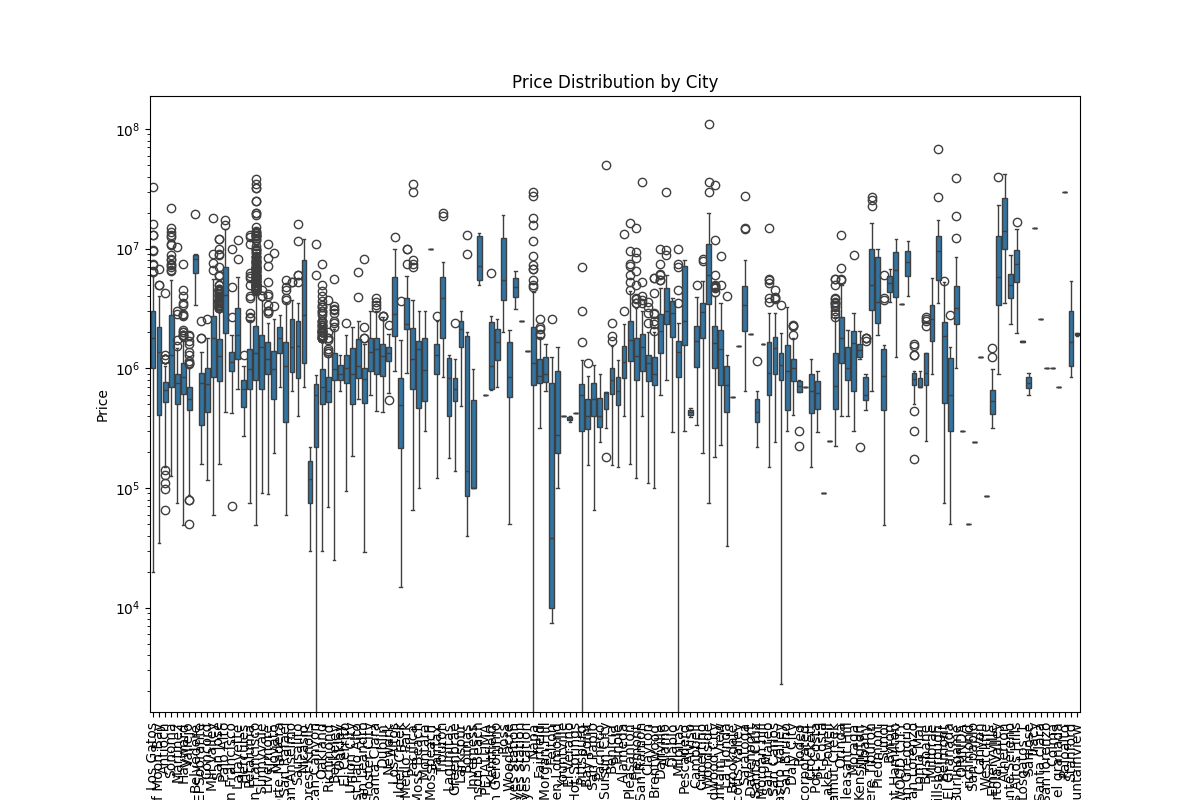
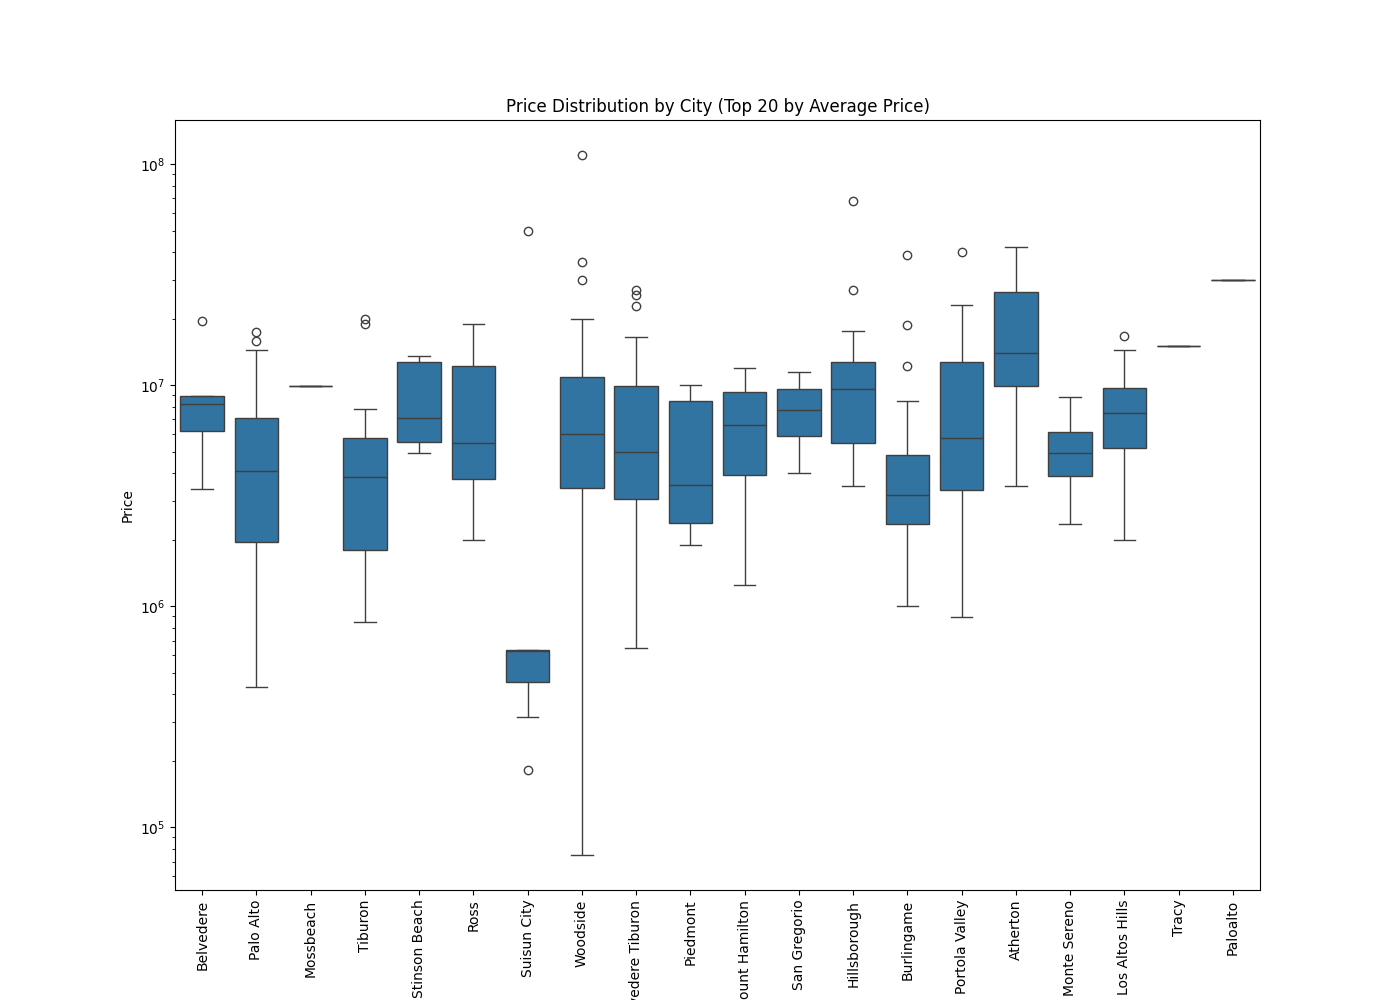
update plot_price_distribution_by_city

diff --git a/src/exploratory_analysis.py b/src/exploratory_analysis.py
@@ -45,18 +45,35 @@ def plot_avg_price_by_beds(df, output_path):
     plt.show()
     plt.close()
 
+# def plot_price_distribution_by_city(df, output_path):
+#     # Price Distribution by City
+#     plt.figure(figsize=(12, 8))
+#     sns.boxplot(x='addressCity', y='price', data=df)
+#     plt.xticks(rotation=90)
+#     plt.title('Price Distribution by City')
+#     plt.xlabel('City')
+#     plt.ylabel('Price')
+#     plt.yscale('log')
+#     plt.savefig(os.path.join(output_path, 'price_distribution_by_city.png'))
+#     plt.show()
+#     plt.close()
+
 def plot_price_distribution_by_city(df, output_path):
-    # Price Distribution by City
-    plt.figure(figsize=(12, 8))
-    sns.boxplot(x='addressCity', y='price', data=df)
+    # Filter top 20 cities by average price
+    top_cities = df.groupby('addressCity')['price'].mean().nlargest(20).index
+    df_top_cities = df[df['addressCity'].isin(top_cities)]
+    
+    plt.figure(figsize=(14, 10))
+    sns.boxplot(x='addressCity', y='price', data=df_top_cities)
+    plt.yscale('log')
     plt.xticks(rotation=90)
-    plt.title('Price Distribution by City')
+    plt.title('Price Distribution by City (Top 20 by Average Price)')
     plt.xlabel('City')
     plt.ylabel('Price')
-    plt.yscale('log')
     plt.savefig(os.path.join(output_path, 'price_distribution_by_city.png'))
     plt.show()
     plt.close()
+    # print(f"Plot saved to {output_path}")
 
 if __name__ == "__main__":
     output_path = 'data/plots'
